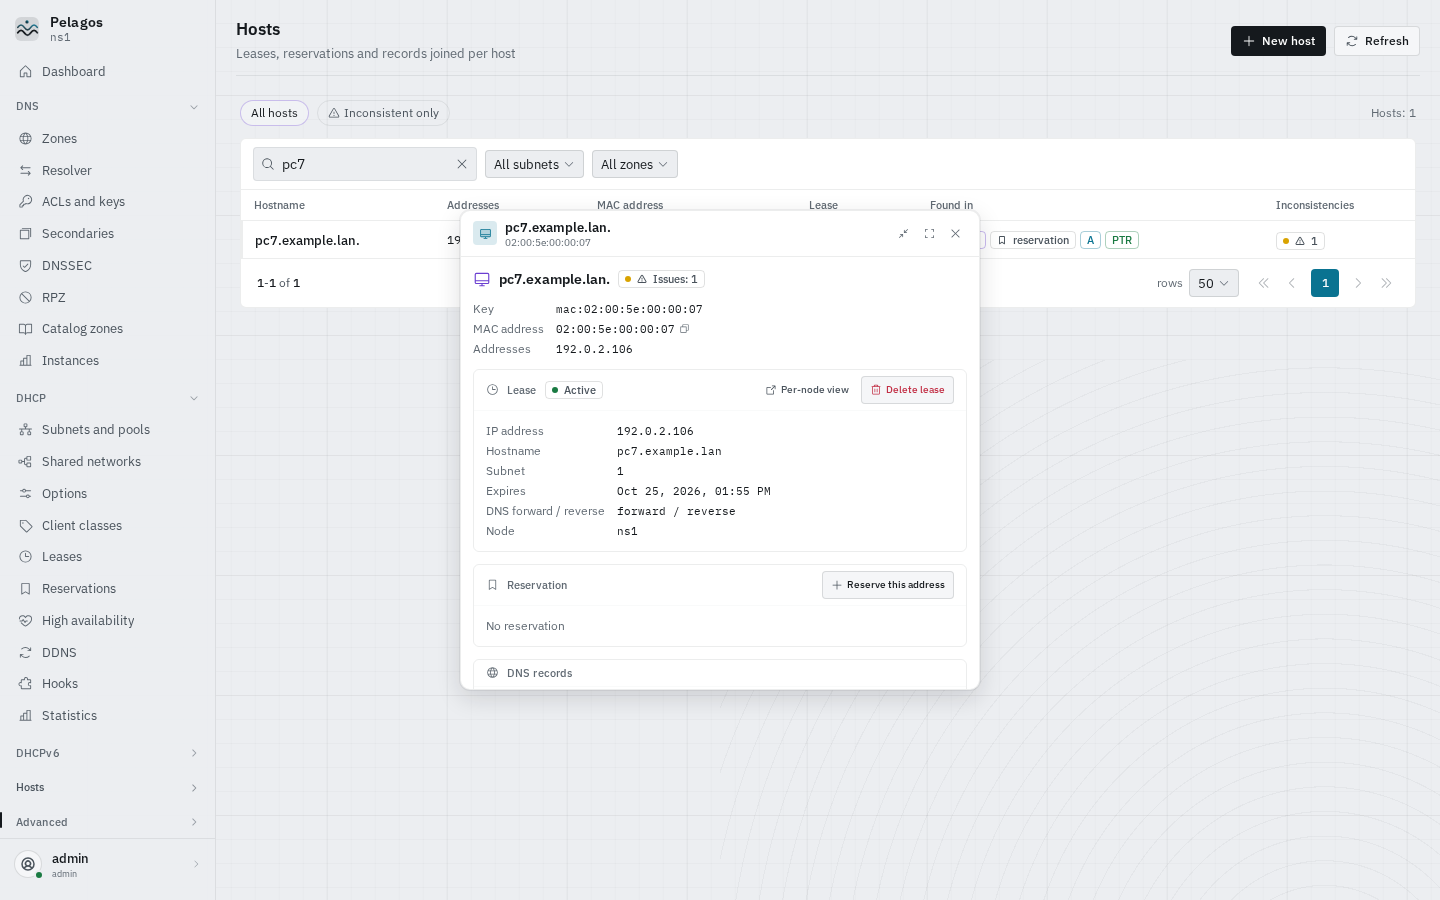
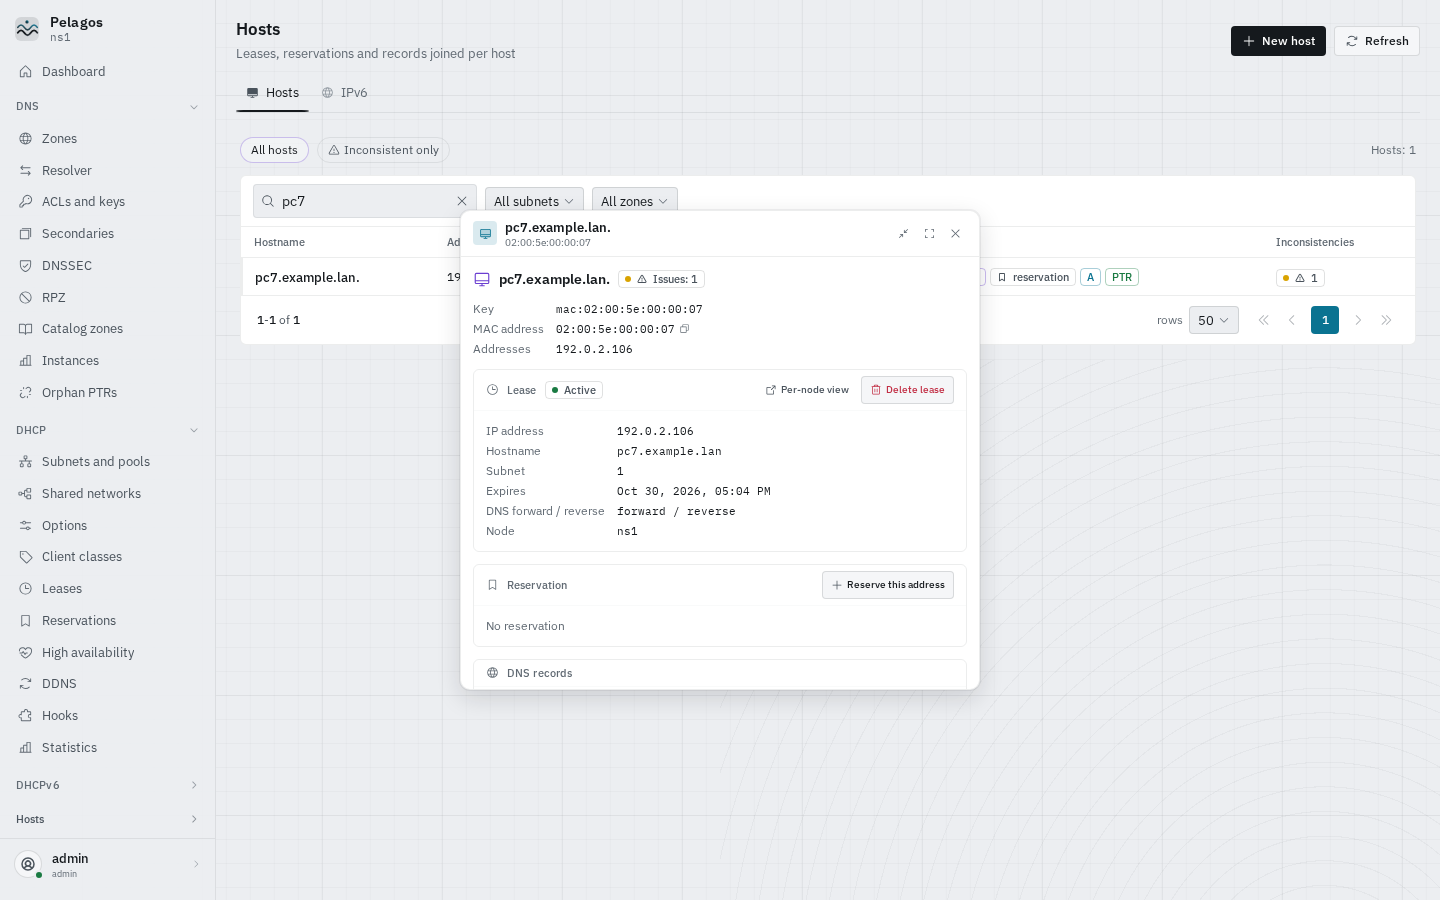
docs(readme): update for 0.3.1, UCM links, contributing guide

diff --git a/README.md b/README.md
@@ -1,5 +1,7 @@
 # Pelagos
 
+[![License: Apache-2.0](https://img.shields.io/badge/license-Apache--2.0-blue.svg)](LICENSE)
+
 DNS and DHCP management for BIND 9 and ISC Kea, high availability included.
 
 Pelagos runs one identical node on every DNS/DHCP server: a local agent, a
@@ -12,8 +14,10 @@ cluster.
 
 ![Dashboard, Instrument theme: cluster trace with live DNS and DHCP rates](docs/images/dashboard-dark.png)
 
-Status: early release (`0.1`). The feature set below is implemented and
-tested against real `named` and Kea daemons; expect rough edges.
+Status: `0.3.1` ([releases](https://github.com/NeySlim/pelagos/releases)).
+Every feature below is tested against real `named` and Kea daemons, and on
+lab clusters of disposable VMs: Debian 13 HA pairs on amd64 and arm64 (arm64
+under emulation) and Rocky Linux nodes.
 
 ## Features
 
@@ -21,20 +25,49 @@ tested against real `named` and Kea daemons; expect rough edges.
   with a live preview, dynamic zones edited through signed UPDATE, views,
   ACLs and TSIG keys, resolver options, DNSSEC status, RPZ,
   secondaries and transfers, zone sync across servers.
+- **RPZ subscriptions**: public block lists by category and level from a
+  catalog, your own lists, update rules and exceptions.
+- **Resolver health**: SERVFAIL and DNSSEC failures, query drops and root
+  reachability, with a fallback to forwarders.
 - **DHCPv4 and DHCPv6 (Kea)**: subnets and pools with utilization, shared
   networks, options and client classes, reservations, leases with search
   and release, prefix delegation pools, DDNS (`kea-dhcp-ddns`), hooks.
+- **DDNS failover**: no single point of failure for `kea-dhcp-ddns`, with a
+  catch-up of the updates missed during an outage.
+- **IPv6**: observed addresses per host (stable, temporary, EUI-64),
+  consistency checks, plans that add the AAAA and PTR records, prefix
+  replacement and reverse zone creation.
 - **High availability**: Kea HA pairs (hot-standby, load-balancing) with
   state, partner view, unsent updates and a guided maintenance mode; alerts
-  when a partner degrades.
+  when a partner degrades, including a communication interrupted while Kea
+  still reports hot-standby.
+- **Kea 2.6 to 3.x migration**: built in, in three steps (prepare, switch
+  the standby, switch the primary) with the analysis and the validations
+  done first and an automatic return to 2.6 on failure.
 - **Hosts**: one card per host joining the lease, the reservation and the
   DNS records (A, AAAA, PTR) from every server, with the inconsistencies
   between them (record without lease, PTR mismatch, reservation without
   lease) and a single plan to create or fix a host.
 - **Plans**: every change is a plan first, with its diff, the engine
   validation (`named-checkconf`, `named-checkzone`, Kea `config-test`) and
-  its preconditions. Apply it, then roll it back while it is in memory. The
+  its preconditions. An impact section lists what the change breaks (leases
+  lost, records removed) and one rule decides when a plan needs an explicit
+  confirmation. Apply it, then roll it back while it is in memory. The
   audit log keeps who changed what, on which node, with the full diff.
+- **Permission guard**: every plan checks, in the real context of the
+  service, that it can write every path it touches; a continuous alert and
+  a remediation plan through the root helper.
+- **Updates from the UI**: upload a release or take it from GitHub
+  releases, checksums always verified, signature optional (an unsigned
+  release needs an extra confirmation), node by node rollout with automatic
+  rollback, and the BIND and Kea packages too.
+- **Archives**: encrypted with [age](https://age-encryption.org), on a
+  schedule, to a peer node, a folder or SFTP; restore online and rebuild a
+  lost node.
+- **Notifications**: alerts by SMTP, ntfy, Gotify, webhook and Matrix.
+- **API tokens**: limited to chosen permissions, with an expiry and
+  optional client networks, for scripts and monitoring, with an example Prometheus exporter
+  ([Metrics](docs/user/operations.md#metrics-and-monitoring)).
 - **Replication**: nodes enroll with a one-time token against an internal
   CA, replicate the cluster configuration and the audit log, and catch up
   after an outage.
@@ -48,12 +81,16 @@ tested against real `named` and Kea daemons; expect rough edges.
 - **Import and install**: adopt an existing BIND and Kea setup with a single
   include line added to `named.conf`, or install BIND and Kea (distribution
   packages or ISC repositories) and configure them.
-- **UI**: themes (Instrument by default, plus Mission Control and
+- **UI**: built on the design system of
+  [Ultimate CA Manager (UCM)](https://github.com/NeySlim/ultimate-ca-manager), themes (Instrument by default, plus Mission Control and
   others, dark and light; animations at three levels and optional ambient
   backgrounds, both following the reduced-motion setting), English and French,
   dashboard with a live cluster trace, DNS and DHCP rates, nodes, HA, zone
   sync, pool usage and DDNS errors, live updates over WebSocket, roles,
   TOTP, security keys and passkeys.
+- **Certificates**: the HTTPS certificate of each node, self-signed,
+  uploaded, ACME (Let's Encrypt, step-ca, any ACME server) or UCM through its
+  API, renewed and checked before install (Administration > Certificates).
 
 | Zone record with its plan | DHCP subnets |
 | --- | --- |
@@ -99,9 +136,9 @@ Details: [user documentation](docs/user/README.md),
 | --- | --- |
 | deb package | Debian 13 (trixie), amd64 and arm64 |
 | rpm package | RHEL, Rocky Linux, AlmaLinux 9 and 10, x86_64 |
-| Container images | node and all-in-one, amd64 and arm64, built with `make docker` and `make docker-allinone` |
+| Container images | node and all-in-one, amd64 and arm64, built locally with `make docker` and `make docker-allinone` (not published) |
 | BIND | 9.20 |
-| Kea | 3.x (3.2 tested) with the `lease_cmds`, `host_cmds`, `subnet_cmds` and `stat_cmds` hooks; Kea 2.6 in a reduced mode (no `subnet_cmds` or `host_cmds`: subnet changes through `config-set`) |
+| Kea | 3.x recommended (3.2 tested) with the `lease_cmds`, `host_cmds`, `subnet_cmds` and `stat_cmds` hooks; Kea 2.6 in a reduced mode (no `subnet_cmds` or `host_cmds`: subnet changes through `config-set`), with the built-in migration to 3.x |
 | Browsers | current Chromium, Firefox and Safari |
 
 The packages bundle their own Python environment under `/opt/pelagos`
@@ -109,9 +146,14 @@ The packages bundle their own Python environment under `/opt/pelagos`
 
 ## Installation
 
+The deb packages (amd64 and arm64) and their `SHA256SUMS` are attached to
+each [GitHub release](https://github.com/NeySlim/pelagos/releases). Recent
+releases carry no rpm: build it with `make rpm` (see below).
+
 ### Debian 13 (deb)
 
 ```sh
+sha256sum -c --ignore-missing SHA256SUMS
 sudo apt install ./pelagos_<version>_amd64.deb
 sudo pelagos init --name ns1          # asks for the first admin password
 sudo systemctl start pelagos pelagos-collector
@@ -120,7 +162,8 @@ sudo systemctl start pelagos pelagos-collector
 Open `https://ns1.example.lan:8443/` (self-signed certificate on first
 start; replace `/etc/pelagos/tls/server.crt` and `server.key` with your
 own). The units are enabled by the package and only start once the node is
-initialized.
+initialized. Later upgrades go through **Administration > Updates**
+([Upgrade](docs/user/upgrade.md)).
 
 ### RHEL, Rocky, AlmaLinux (rpm)
 
@@ -134,12 +177,16 @@ sudo firewall-cmd --permanent --add-port=8443/tcp --add-port=8444/tcp && sudo fi
 ### Docker compose
 
 The compose file runs the node next to the official ISC images for BIND
-and Kea. No image is published yet: build the node image first.
+and Kea. No image is published: build the node image first.
+`PELAGOS_ADMIN_PASSWORD` is required; the node refuses to start without a
+strong one.
 
 ```sh
 make docker
 cd docker
-PELAGOS_IMAGE=pelagos:latest PELAGOS_ADMIN_PASSWORD='Change-Me-Please-1' docker compose up -d
+export PELAGOS_ADMIN_PASSWORD="$(openssl rand -base64 18)"   # or set your own
+echo "$PELAGOS_ADMIN_PASSWORD"
+PELAGOS_IMAGE=pelagos:latest docker compose up -d
 ```
 
 Kea uses the host network to serve DHCP; add the LAN interface to the
@@ -220,7 +267,7 @@ make test           # unit tier + vitest
 make test-daemon    # real named and Kea in a temporary directory
 make test-e2e       # Playwright against the mock server
 make build-frontend # vite build into frontend/dist
-make run            # dev node on http://127.0.0.1:8480 (admin / Admin-Dev-Password-1) + UI on :5173
+make run            # dev node on http://127.0.0.1:8480 + UI on :5173; prints a generated admin password on first start (or uses PELAGOS_ADMIN_PASSWORD)
 make screenshots    # regenerate docs/images from the mock server
 ```
 
@@ -231,13 +278,15 @@ first, see [AppArmor](docs/user/troubleshooting.md#apparmor)), and `lab`
 (installs packages on disposable VMs, `make test-lab`, see
 [scripts/lab/README.md](scripts/lab/README.md)). CI runs lint, the unit
 tier on Python 3.12 and 3.13, the frontend checks, the daemon tier against
-BIND 9.20 and Kea 3.2, and the end-to-end suite; version tags build the
-packages and publish the images.
+BIND 9.20 and Kea 3.2, and the end-to-end suite. A version tag builds and
+smoke-tests the packages and images for amd64 and arm64; the GitHub release
+and the images are published only by a manual run on that tag.
 
 The frontend can run alone against a mock API: `cd frontend && npm run mock`
 in one terminal and `VITE_API_MOCK=1 npm run dev` in another (see
 [frontend/README.md](frontend/README.md)). Contribution rules, ownership
-and conventions: [AGENTS.md](AGENTS.md).
+and conventions: [CONTRIBUTING.md](CONTRIBUTING.md) and
+[AGENTS.md](AGENTS.md).
 
 ## License
 

diff --git a/docs/user/README.md b/docs/user/README.md
@@ -10,14 +10,14 @@ documentation names `ns1`, `ns2`, `example.lan`, `192.0.2.0/24` and
 | [Installation](installation.md) | Debian 13 deb (with the ISC Kea repository), RHEL/Rocky/AlmaLinux 9 and 10 rpm (SELinux, firewalld), Docker (node image, all-in-one, compose), from source |
 | [Getting started](getting-started.md) | first node, sign-in, importing BIND and Kea, security audit, enrolling a second node, secondary zones, a Kea HA pair, users |
 | [Configuration](configuration.md) | `node.toml`, `cluster.toml`, settings, environment variables, TLS, ports, roles and permissions, users and API access, languages and themes |
-| [Screens](screens.md) | sign-in, dashboard, hosts, alerts, advanced editors and operations, nodes, install and import, security audit, audit log, administration, account |
-| [DNS](dns.md) | zones, records, static and dynamic zones, views, resolver, ACLs and keys, secondaries, DNSSEC, RPZ, catalog zones, instances |
+| [Screens](screens.md) | sign-in, dashboard, hosts (with the IPv6 tab), alerts, advanced editors and operations, nodes, install and import, Kea migration, security audit, audit log, administration (updates, notifications, archives, certificates, IPv6 observation, settings), account |
+| [DNS](dns.md) | zones, records, static and dynamic zones, views, resolver and its health (forwarder fallback), ACLs and keys, secondaries, DNSSEC, RPZ, catalog zones, instances |
 | [RPZ block lists](rpz.md) | public lists by category and level, own lists, zone transfers, update rules, memory, exceptions, rewrite log, AdGuard Home |
-| [DHCP](dhcp.md) | subnets and pools, shared networks, options, client classes, leases, reservations, HA, DDNS, hooks, statistics |
-| [Certificates](certificates.md) | HTTPS certificate of each node: self-signed, manual (request made on the node, PEM, PKCS#12), ACME (Let's Encrypt, step-ca, UCM; DNS-01, HTTP-01), UCM API, all nodes at once, renewal, expiry alerts |
+| [DHCP](dhcp.md) | subnets and pools, shared networks, options, client classes, leases, reservations, HA and its alerts, DDNS and its failover, hooks, statistics |
+| [Certificates](certificates.md) | HTTPS certificate of each node: self-signed, manual (request made on the node, PEM, PKCS#12), ACME (Let's Encrypt, step-ca, [Ultimate CA Manager (UCM)](https://github.com/NeySlim/ultimate-ca-manager); DNS-01, HTTP-01), UCM API, all nodes at once, renewal, expiry alerts |
 | [Plans](plans.md) | preview, apply, expiry, rollback, plans across nodes |
-| [Operations](operations.md) | replication, redundancy, backup and restore, upgrade, uninstall, logs, metrics |
-| [Upgrade](upgrade.md) | node by node upgrade of a cluster, what changes in the files, running two versions, rollback |
+| [Operations](operations.md) | replication, redundancy, encrypted archives, restore and rebuild, upgrade, uninstall, logs, metrics and the Prometheus exporter example |
+| [Upgrade](upgrade.md) | upgrades from the Updates screen (upload or GitHub releases, signature, automatic rollback, engine packages), node by node upgrade by hand, running two versions, rollback |
 | [CLI](cli.md) | every `pelagos` command and option |
 | [API](api.md) | authentication, conventions, problem documents, messages, endpoints, WebSocket |
 | [Troubleshooting](troubleshooting.md) | services, sign-in, named, Kea, permissions, AppArmor, SELinux, replication, certificates, error messages |

diff --git a/CONTRIBUTING.md b/CONTRIBUTING.md
@@ -1,0 +1,19 @@
+# Contributing
+
+Thanks for your interest in Pelagos.
+
+- **Bugs and ideas**: open an issue with the version (`pelagos version`),
+  the distribution, the BIND and Kea versions and what you expected.
+- **Security issues**: never in a public issue, see [SECURITY.md](SECURITY.md).
+- **Code**: read [AGENTS.md](AGENTS.md) first. It holds the layout, the
+  ownership of each part, the contracts and the conventions. In short:
+  - `make dev`, then `make lint` and `make test` must pass; add
+    `make test-daemon` when BIND or Kea behaviour changes and
+    `make test-e2e` for the UI;
+  - contracts live in [docs/architecture.md](docs/architecture.md); record
+    any change in [docs/contracts-changes.md](docs/contracts-changes.md);
+  - commit subjects follow `type(scope): summary` in 72 characters or less;
+  - examples use documentation names and addresses only (`ns1`, `ns2`,
+    `example.lan`, `192.0.2.0/24`, `2001:db8::/64`).
+
+Contributions are accepted under the [Apache-2.0](LICENSE) license.

diff --git a/docs/user/certificates.md b/docs/user/certificates.md
@@ -45,7 +45,7 @@ source applied to several nodes; **Apply to all nodes** sets it.
 | Self-signed (default) | made on the node | none: the install creates one valid 10 years, **New self-signed** replaces it |
 | Manual | made on the node (request) or given with the certificate | none: the expiry alert reminds you |
 | ACME | made on the node at each issuance | automatic, when a third of the lifetime is left |
-| UCM | made on the node at each issuance | automatic, `ucm_renew_days` (30) before the end |
+| [Ultimate CA Manager (UCM)](https://github.com/NeySlim/ultimate-ca-manager) | made on the node at each issuance | automatic, `ucm_renew_days` (30) before the end |
 
 Common options of ACME and UCM: **Added names** (beside the node name and
 the host of its web URL), **Key type** (ECDSA P-256 or RSA 3072), and **One

diff --git a/docs/design.md b/docs/design.md
@@ -24,7 +24,7 @@ L'outil pilote BIND 9 et Kea au plus près des logiciels, sans dupliquer leur é
 6. Portable : paquets deb et rpm, livraison Docker sur les images officielles ISC. L'état propre à l'outil tient dans un fichier de configuration et un journal d'audit.
 7. Conscience de la HA : état des deux pairs Kea, serials primaire / secondaire. L'outil est lui-même redondant : un nœud identique sur chaque serveur.
 8. Statistiques par élément : chaque instance BIND, chaque serveur Kea DHCPv4 ou DHCPv6, chaque D2.
-9. Le système de design d'UCM : thèmes existants gardés, nouveaux thèmes ajoutés.
+9. Le système de design d'[Ultimate CA Manager (UCM)](https://github.com/NeySlim/ultimate-ca-manager) : thèmes existants gardés, nouveaux thèmes ajoutés.
 
 **Non-objectifs**
 

diff --git a/docs/user/configuration.md b/docs/user/configuration.md
@@ -451,7 +451,7 @@ see [RPZ block lists](rpz.md). The settings API refuses them.
 
 | Key | Default | Range | Effect |
 | --- | --- | --- | --- |
-| `ucm_renew_days` | `30` | 1 to 365 days | UCM source: renewal this long before the end |
+| `ucm_renew_days` | `30` | 1 to 365 days | [Ultimate CA Manager (UCM)](https://github.com/NeySlim/ultimate-ca-manager) source: renewal this long before the end |
 | `retry_min_seconds` | `300` | 30 to 86400 s | first retry after a failed automatic request, then doubling |
 | `retry_max_seconds` | `21600` | 60 to 604800 s | longest delay between retries |
 | `propagation_seconds` | `180` | 10 to 3600 s | DNS-01: wait for the TXT on every authoritative server |

diff --git a/docs/user/screens.md b/docs/user/screens.md
@@ -497,7 +497,7 @@ Under Administration:
   and the engines of each node
   ([Configuration: modules](configuration.md#modules)).
 - **Certificates** (`admin:certificates`): the HTTPS certificate of each
-  node, its source (self-signed, manual, ACME, UCM), upload with checks,
+  node, its source (self-signed, manual, ACME, [Ultimate CA Manager (UCM)](https://github.com/NeySlim/ultimate-ca-manager)), upload with checks,
   renewal, one source for all nodes ([Certificates](certificates.md)).
 - **Notifications** (`admin:notifications`): channels that push alerts
   (e-mail, ntfy, Gotify, Matrix, signed webhook, Home Assistant), each with

diff --git a/docs/architecture.md b/docs/architecture.md
@@ -2052,7 +2052,7 @@ issuing node is any node holding `ca.key`, which is the first node; a copy of
 `ca.key` is handed to nodes with the `ca` flag at enrollment so the CA
 survives the first node). A renewal records the new fingerprint in `[[nodes]]`
 and appends the replaced one to `[revoked]`; it is audited as `admin.node.op`
-with `request.op = "renew"`. UCM as external CA is a documented future option,
+with `request.op = "renew"`. [Ultimate CA Manager (UCM)](https://github.com/NeySlim/ultimate-ca-manager) as external CA is a documented future option,
 not implemented.
 
 Flow:

diff --git a/frontend/README.md b/frontend/README.md
@@ -1,7 +1,7 @@
 # Pelagos frontend
 
 React 18, Vite, Tailwind, Radix primitives, i18next, recharts and
-react-grid-layout, on the design system copied from UCM
+react-grid-layout, on the design system copied from [Ultimate CA Manager (UCM)](https://github.com/NeySlim/ultimate-ca-manager)
 (`src/DESIGN_SYSTEM.md`). Toolchain and conventions: `AGENTS.md`.
 
 ```sh
